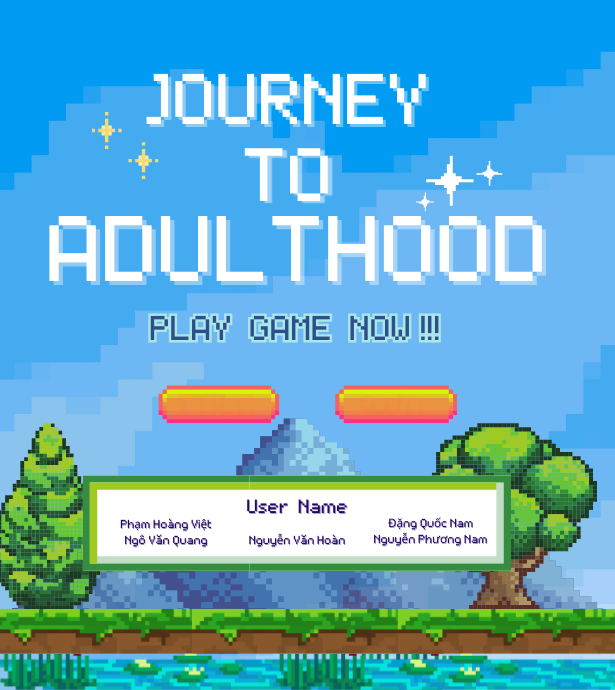
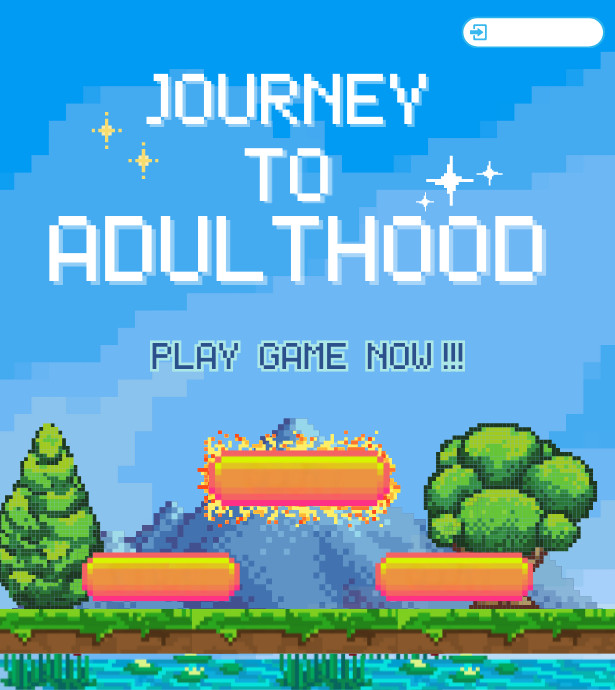
update

Changed region(s): [[0.1236, 0.4565, 0.865, 0.8826], [0.7415, 0.0, 0.9886, 0.0913]]

diff --git a/State/Intro.java b/State/Intro.java
@@ -20,9 +20,11 @@ public class Intro{
     private JButton Start;
     private JButton Exit;
     private JButton loginButton;
+    private JButton scoreBoard;
+
     public Intro(MyFrame Mf){
         this.Mf=Mf;
-        //set up panels
+        //set up panels 
         introPanel = new JPanel(null);
         introPanel.setSize(Mf.getJframeWidth(),Mf.getJframeHeightParent());
         introPanel.setOpaque(true);
@@ -32,7 +34,7 @@ public class Intro{
 
     public void init() {
         // Set font (Có thể set nhiều font với kích thước khác nhau, chỉ cần đặt khác tên đi là được)
-        Font font = new Font("Arial", Font.BOLD, 24);
+        Font font = new Font("Arial", Font.BOLD, 28);
 
         // Set các thành phần cơ bản cho ứng dụng
         introPanel.setVisible(true);
@@ -45,9 +47,9 @@ public class Intro{
         introPanel.add(background);
 
        // Tạo ra một nút Start và đặt nội dung cho nó là Start
-       Start = new JButton("Start");
+       Start = new JButton("START");
        Start.setFont(font);
-       Start.setBounds(121, 370, 130, 50);
+       Start.setBounds(220, 445, 150, 70);
        
        // Set màu chữ ban đầu
        Start.setForeground(new Color(128,0,0));
@@ -71,11 +73,39 @@ public class Intro{
     });
         // Thêm nút Start vào introPanel với index = 0, là đặt nút này ở vị trí đầu tiên (trên cùng)
         introPanel.add(Start, 0);
+
+        // Tạo ra một nút scoreBoard và đặt nội dung cho nó là scoreBoard
+     scoreBoard = new JButton("SCORE BOARD");
+     scoreBoard.setFont(new Font("Arial", Font.BOLD, 19));
+     scoreBoard.setBounds(65, 555, 200, 50);
+     
+     // Set màu chữ ban đầu
+     scoreBoard.setForeground(new Color(128,0,0));
+     // Làm cho nút trở nên trong suốt
+     scoreBoard.setOpaque(false);
+     scoreBoard.setContentAreaFilled(false);
+     scoreBoard.setBorderPainted(false);
+     
+     scoreBoard.setFocusable(false);
+
+     scoreBoard.addMouseListener(new MouseAdapter() {
+      @Override
+      public void mouseEntered(MouseEvent e) {
+          scoreBoard.setForeground(new Color(94,8,8)); // Đổi màu chữ khi di chuột vào
+      }
+
+      @Override
+      public void mouseExited(MouseEvent e) {
+          scoreBoard.setForeground(new Color(128,0,0)); // Đổi lại màu chữ khi chuột rời khỏi nút
+      }
+  });
+        // Thêm nút Start vào introPanel với index = 0, là đặt nút này ở vị trí đầu tiên (trên cùng)
+        introPanel.add(scoreBoard, 1);
         
         // Tạo ra một nút Exit và đặt nội dung cho nó là Exit
-        Exit = new JButton("Exit");
-        Exit.setFont(font);
-        Exit.setBounds(355, 370, 130, 50);
+        Exit = new JButton("EXIT");
+        Exit.setFont(new Font("Arial", Font.BOLD, 20));
+        Exit.setBounds(380, 555, 130, 50);
         
         // Set màu chữ ban đầu
         Exit.setForeground(new Color(128,0,0));
@@ -100,12 +130,12 @@ public class Intro{
         });
 
         // Thêm nút Exit vào introPanel với index = 1, là đặt nút này ở vị trí sau nút Start (dưới cùng)
-        introPanel.add(Exit, 1);
+        introPanel.add(Exit, 2);
      
         // Tạo ra một nút loginButton nhấn sẽ đến cửa sổ đăng nhập
         loginButton = new JButton("Đăng nhập");
         loginButton.setFont(new Font("Arial", Font.BOLD, 16));
-        loginButton.setBounds(Mf.getJframeWidth()-130, Mf.getJframeHeight()-620, 130, 50);
+        loginButton.setBounds(Mf.getJframeWidth()-135, Mf.getJframeHeight()-610, 130, 50);
         
         // Set màu chữ ban đầu
         loginButton.setForeground(new Color(128,0,0));
@@ -144,8 +174,13 @@ public class Intro{
         return Exit;
     }
 
+    public JButton getscoreBoard() {
+        return scoreBoard;
+    }
+
     public JButton getLoginButton() {
         return loginButton;
     }
+    
     
 }

diff --git a/State/ScoreBoard.java b/State/ScoreBoard.java
@@ -1,0 +1,90 @@
+package State;
+
+import javax.swing.*;
+import main.MyFrame;
+import java.awt.*;
+import java.awt.event.MouseAdapter;
+
+import main.MyFrame;
+
+public class ScoreBoard {
+    private JTextArea fieldText;
+    private JButton Back;
+    private JLayeredPane scoreBoard;
+    private JLabel[] playerLabels;
+    private MyFrame Mf;
+
+    public ScoreBoard(MyFrame Mf) {
+        this.Mf = Mf;
+        scoreBoard = new JLayeredPane();
+
+        // Set font for fieldText
+        fieldText = new JTextArea();
+        Font font = new Font("Arial", Font.BOLD, 13);
+        fieldText.setFont(font);
+        fieldText.setForeground(Color.BLACK);
+
+        // Set position for fieldText
+        fieldText.setBounds(105, 180, 300, 265);
+        fieldText.setOpaque(false);
+        fieldText.setEnabled(false);
+        fieldText.setLineWrap(true);
+        fieldText.setWrapStyleWord(true);
+
+        // Load background image
+        ImageIcon image = new ImageIcon("./picture/Background_ScoreBoard.png");
+        JLabel backgroundLabel = new JLabel(image);
+        backgroundLabel.setBounds(0, 0, Mf.getJframeWidth(), Mf.getJframeHeightParent());
+
+        // Initialize the Back button
+        Back = new JButton("Back");
+        Back.setBounds(Mf.getJframeWidth() - 107, Mf.getJframeHeight() - 597, 130, 50);
+        Back.setForeground(Color.BLACK);
+        Back.setOpaque(false);
+        Back.setContentAreaFilled(false);
+        Back.setBorderPainted(false);
+        Back.setFocusable(false);
+
+        // Change text color when mouse hovers over the button
+        Back.addMouseListener(new MouseAdapter() {
+            @Override
+            public void mouseEntered(java.awt.event.MouseEvent evt) {
+                Back.setForeground(Color.BLUE);
+            }
+
+            @Override
+            public void mouseExited(java.awt.event.MouseEvent evt) {
+                Back.setForeground(Color.BLACK);
+            }
+        });
+
+        // Initialize JLabels for player names and scores
+        playerLabels = new JLabel[5];
+        for (int i = 0; i < playerLabels.length; i++) {
+            playerLabels[i] = new JLabel();
+            playerLabels[i].setFont(new Font("Arial", Font.BOLD, 16));
+            playerLabels[i].setForeground(Color.BLACK);
+            playerLabels[i].setBounds(195, 280 + i * 40, 300, 30);
+            scoreBoard.add(playerLabels[i]);
+        }
+
+        // Set player names and scores
+        String[] players = { "NGUYỄN VĂN HOÀN", "NGUYỄN VĂN HOÀN", "NGUYỄN VĂN HOÀN" , "NGUYỄN VĂN HOÀN", "NGUYỄN VĂN HOÀN"};
+        int[] scores = { 300, 255, 430, 422, 344 };
+        for (int i = 0; i < playerLabels.length; i++) {
+            playerLabels[i].setText(players[i] + " - " + scores[i]);
+        }
+
+        scoreBoard.add(Back);
+        scoreBoard.add(fieldText, JLayeredPane.DEFAULT_LAYER);
+        scoreBoard.add(backgroundLabel, JLayeredPane.DEFAULT_LAYER);
+    }
+
+    public JButton getBack() {
+        return Back;
+    }
+
+    public JLayeredPane getscoreBoard() {
+        return scoreBoard;
+    }
+}

diff --git a/State/Trailer.java b/State/Trailer.java
@@ -12,7 +12,7 @@ import java.awt.event.ActionListener;
 import java.awt.event.MouseAdapter;
 
 public class Trailer  {
-   MyFrame Mf;
+    MyFrame Mf;
     private JTextArea textArea;
     private JButton nextButton;
     private JButton skipButton;
@@ -42,12 +42,12 @@ public class Trailer  {
 
         //set font
         textArea = new JTextArea();
-        Font font = new Font("Arial", Font.BOLD, 13);
+        Font font = new Font("Arial", Font.BOLD, 12);
         textArea.setFont(font);
         textArea.setForeground(Color.BLACK);
         
         
-        textArea.setBounds(105, 180, 410, 265);
+        textArea.setBounds(105, 193, 410, 265);
         textArea.setOpaque(false);
         textArea.setEnabled(false);
         
@@ -65,8 +65,8 @@ public class Trailer  {
         nextButton = new JButton("Next");
         
         //set size buttons
-        skipButton.setBounds(343, 440, 130, 50);
-        nextButton.setBounds(430, 440, 130, 50);
+        skipButton.setBounds(335, 448, 130, 50);
+        nextButton.setBounds(415, 448, 130, 50);
         
         // Set màu chữ ban đầu
         skipButton.setForeground(Color.BLACK);

diff --git a/main/MyFrame.java b/main/MyFrame.java
@@ -10,7 +10,7 @@ import javax.swing.JLabel;
 import javax.swing.JOptionPane;
 import javax.swing.JPanel;
 
-import Controller.StateController.IntroController;
+
 import EndingUi.BadEnding;
 import EndingUi.HappyEnding;
 import Sound.SoundEffect;
